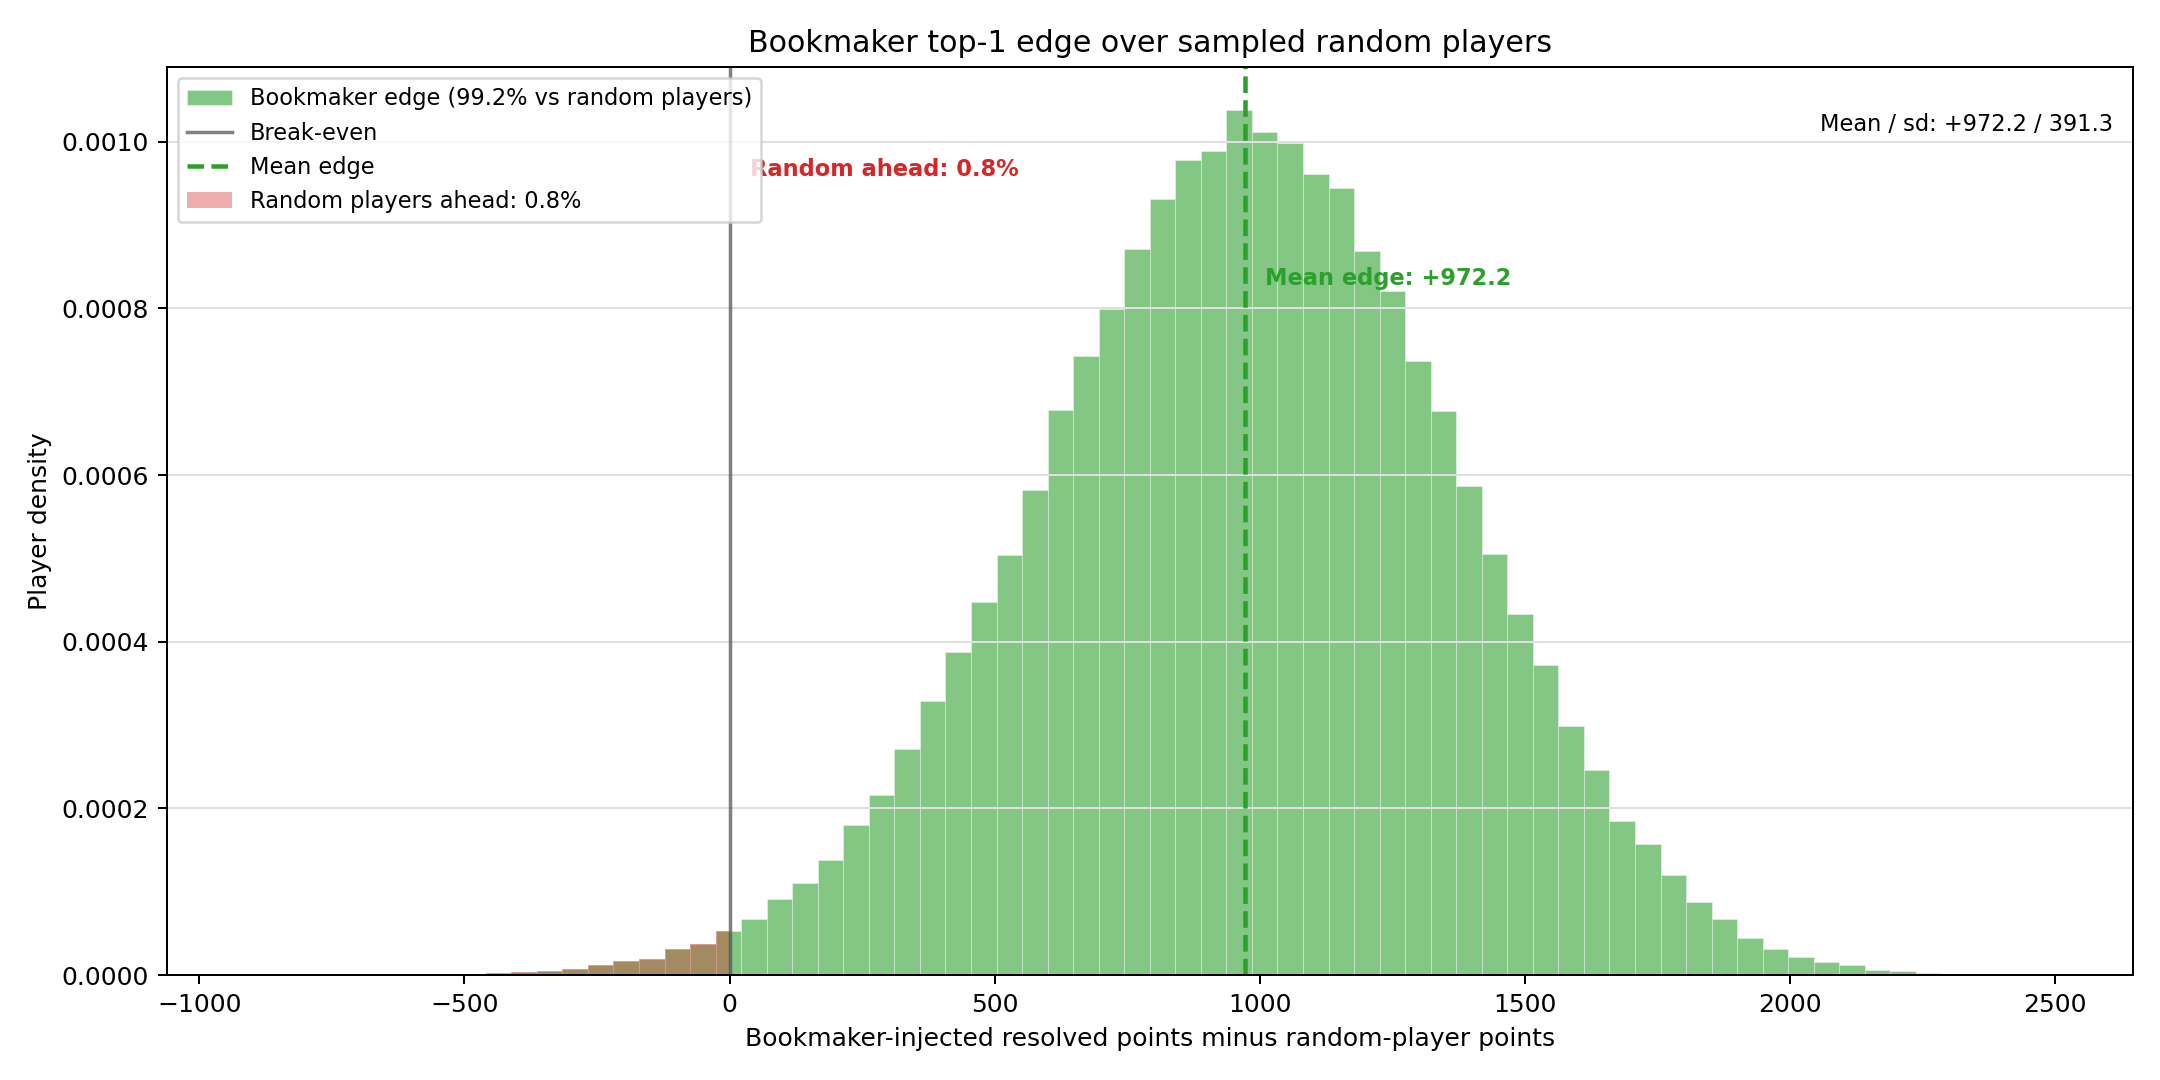
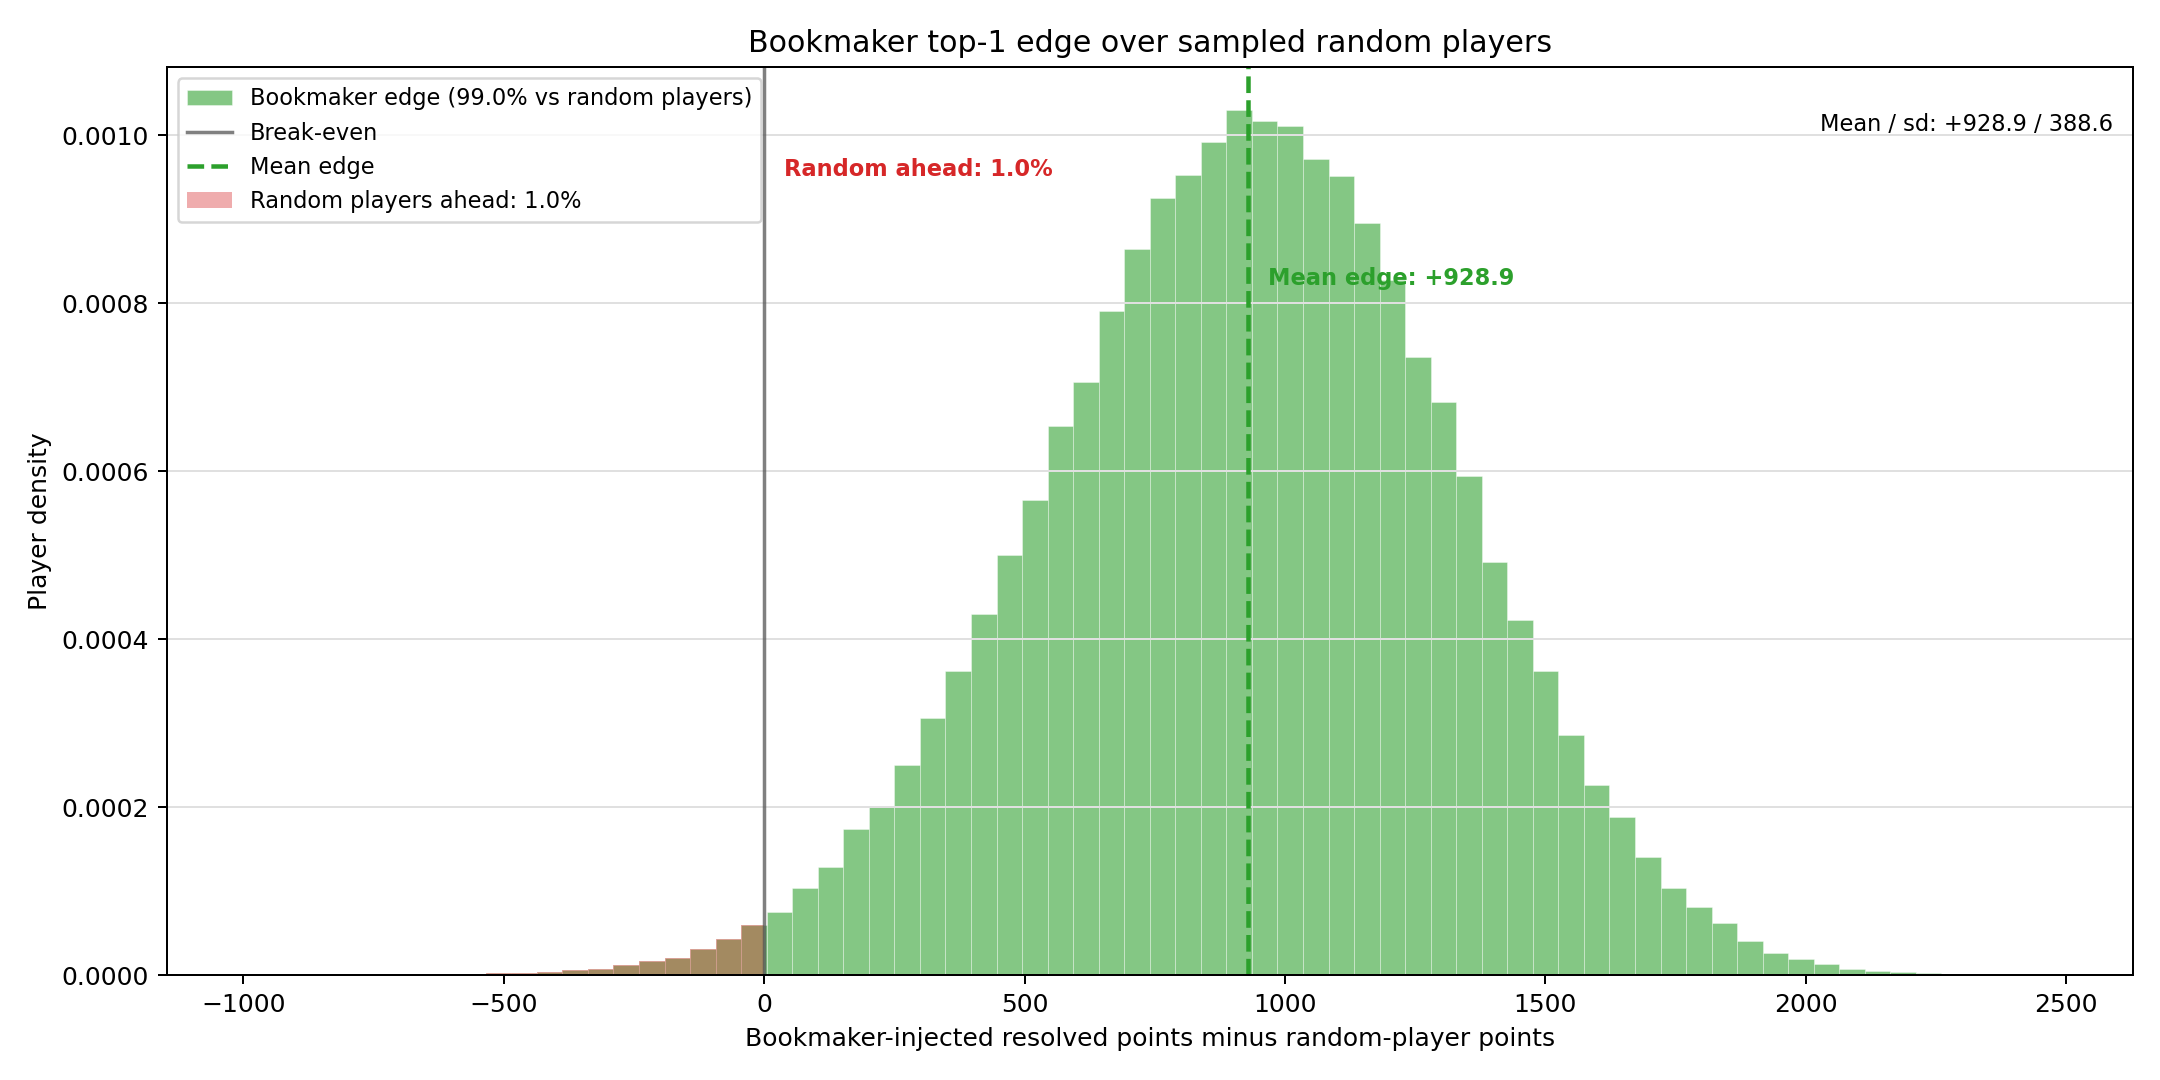
finals

diff --git a/tests/test_analyze_bookmaker_injected_results.py b/tests/test_analyze_bookmaker_injected_results.py
@@ -528,6 +528,112 @@ class ScoreCompletedBookmakerPicksTests(unittest.TestCase):
         self.assertEqual(len(resolved_totals), 100)
         self.assertTrue(set(resolved_totals).issubset({0.0, 140.0}))
 
+    def test_random_player_renormalizes_to_mpg_outcome_shares(self) -> None:
+        predictions = [
+            {
+                "logged_at_utc": "2026-06-14T00:00:00+00:00",
+                "submission_id": "sub-1",
+                "match": "Home vs Away",
+                "conditional_share_sigma": "0",
+                "rank": "1",
+                "score": "1-0",
+                "outcome": "home",
+                "outcome_probability": "0.5",
+                "exact_score_probability": "0.1",
+                "conditional_bettor_share": "0.75",
+                "nominal_bonus_points": "20",
+                "total_ev": "28",
+            },
+        ]
+        odds = [
+            {
+                "logged_at_utc": "2026-06-14T00:00:00+00:00",
+                "submission_id": "sub-1",
+                "match": "Home vs Away",
+                "home_team": "Home",
+                "away_team": "Away",
+                "home_goals": "1",
+                "away_goals": "0",
+                "score": "1-0",
+                "odds_decimal": "10",
+                "bet_percentage": "75",
+            },
+            {
+                "logged_at_utc": "2026-06-14T00:00:00+00:00",
+                "submission_id": "sub-1",
+                "match": "Home vs Away",
+                "home_team": "Home",
+                "away_team": "Away",
+                "home_goals": "2",
+                "away_goals": "0",
+                "score": "2-0",
+                "odds_decimal": "12",
+                "bet_percentage": "25",
+            },
+            {
+                "logged_at_utc": "2026-06-14T00:00:00+00:00",
+                "submission_id": "sub-1",
+                "match": "Home vs Away",
+                "home_team": "Home",
+                "away_team": "Away",
+                "home_goals": "0",
+                "away_goals": "0",
+                "score": "0-0",
+                "odds_decimal": "8",
+                "bet_percentage": "50",
+            },
+            {
+                "logged_at_utc": "2026-06-14T00:00:00+00:00",
+                "submission_id": "sub-1",
+                "match": "Home vs Away",
+                "home_team": "Home",
+                "away_team": "Away",
+                "home_goals": "0",
+                "away_goals": "1",
+                "score": "0-1",
+                "odds_decimal": "9",
+                "bet_percentage": "50",
+            },
+        ]
+        completed = [
+            {
+                "commence_time": "2026-06-14T01:00:00Z",
+                "home_team": "Home",
+                "away_team": "Away",
+                "home_score": "1",
+                "away_score": "0",
+            },
+        ]
+        mpg = [
+            {
+                "home_team": "Home",
+                "away_team": "Away",
+                "home_odds": "50",
+                "draw_odds": "100",
+                "away_odds": "120",
+                "home_pct": "60%",
+                "draw_pct": "10%",
+                "away_pct": "30%",
+            },
+        ]
+
+        games = score_random_player_games(
+            predictions,
+            odds,
+            completed,
+            mpg,
+            bettor_share_transfer="no_transfer",
+        )
+
+        probabilities = {
+            candidate.score: candidate.selection_probability
+            for candidate in games[0].candidates
+        }
+        self.assertAlmostEqual(probabilities["1-0"], 0.45)
+        self.assertAlmostEqual(probabilities["2-0"], 0.15)
+        self.assertAlmostEqual(probabilities["0-0"], 0.10)
+        self.assertAlmostEqual(probabilities["0-1"], 0.30)
+
 
 if __name__ == "__main__":
     unittest.main()

diff --git a/data/analysis/strategy_simulations/analyze_bookmaker_injected_results.py b/data/analysis/strategy_simulations/analyze_bookmaker_injected_results.py
@@ -251,6 +251,32 @@ def mpg_points_lookup(rows: list[dict[str, str]]) -> dict[tuple[str, str], dict[
     }
 
 
+def parse_percent(value: str | None) -> float:
+    if value is None:
+        return 0.0
+    stripped = value.strip().rstrip("%")
+    return float(stripped) if stripped else 0.0
+
+
+def mpg_outcome_share_lookup(
+    rows: list[dict[str, str]],
+) -> dict[tuple[str, str], dict[str, float]]:
+    shares: dict[tuple[str, str], dict[str, float]] = {}
+    for row in rows:
+        key = (normalize_team(row["home_team"]), normalize_team(row["away_team"]))
+        values = {
+            "home": parse_percent(row.get("home_pct")),
+            "draw": parse_percent(row.get("draw_pct")),
+            "away": parse_percent(row.get("away_pct")),
+        }
+        total = sum(values.values())
+        if total > 0:
+            shares[key] = {
+                outcome: value / total for outcome, value in values.items()
+            }
+    return shares
+
+
 def actual_exact_bonus_points(
     key: tuple[str, str],
     actual_score: str,
@@ -371,6 +397,7 @@ def build_random_game(
     outcome_probabilities: dict[str, float],
     points: dict[str, float],
     sigma: float,
+    outcome_selection_probabilities: dict[str, float] | None = None,
 ) -> RandomGame:
     exact_rows = [
         row for row in submission_rows if row["score"].strip().lower() != "other"
@@ -411,12 +438,18 @@ def build_random_game(
             int(row["home_goals"]), int(row["away_goals"])
         )
         score_probability = (1.0 / float(row["odds_decimal"])) / raw_probability_total
-        selection_probability = float(row["bet_percentage"]) / bettor_total
         conditional_share = (
             float(row["bet_percentage"]) / bettor_outcome_totals[outcome]
             if bettor_outcome_totals[outcome] > 0
             else 0.0
         )
+        if outcome_selection_probabilities is None:
+            selection_probability = float(row["bet_percentage"]) / bettor_total
+        else:
+            selection_probability = (
+                outcome_selection_probabilities.get(outcome, 0.0)
+                * conditional_share
+            )
         bonus = bookmaker_injected_strategy.bonus_distribution(
             conditional_share,
             sigma,
@@ -485,6 +518,7 @@ def score_random_player_games(
     odds_by_submission = odds_rows_by_submission(odds_rows)
     probabilities_by_submission = outcome_probabilities_by_submission(prediction_rows)
     points = mpg_points_lookup(mpg_rows)
+    mpg_outcome_shares = mpg_outcome_share_lookup(mpg_rows)
     games: list[RandomGame] = []
 
     for completed in sorted(completed_rows, key=lambda row: row["commence_time"]):
@@ -520,6 +554,7 @@ def score_random_player_games(
                 probabilities_by_submission.get(submission_id, {}),
                 points[key],
                 sigma,
+                mpg_outcome_shares.get(key),
             )
         )
 

diff --git a/README.md b/README.md
@@ -106,9 +106,9 @@ Latest full run:
 - Mean resolved points per game: **47.37**
 - Correct outcome predictions: **68 / 104** (**65.38%**)
 - Exact-score predictions: **13 / 104** (**12.50%**)
-- Random-player resolved mean: **3953.82** points
-- Bookmaker top-1 percentile vs sampled random players: **99.20%**
-- Sampled random players finishing ahead: **0.80%**
+- Random-player resolved mean: **3997.06** points
+- Bookmaker top-1 percentile vs sampled random players: **99.02%**
+- Sampled random players finishing ahead: **0.98%**
 
 ![Latest bookmaker-injected top-1 vs random-player simulation](data/analysis/strategy_simulations/bookmaker_injected/top1_vs_random_player_distribution.png)
 
